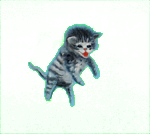
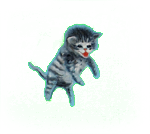
before the tail

diff --git a/client/code/app/vs/cosmos/CosmosControl.js b/client/code/app/vs/cosmos/CosmosControl.js
@@ -78,10 +78,11 @@ var CosmosControl = function ( $core ) {
 	}
 
 	self.toonFramesFromBeyond = function ( frameData, type ){
+		trace("looking for frames from beyond " + type );
 		var soul = self.core.souls[ type ];
 		if ( soul == null ) throw new Error( "You got no SOUL");
 		soul.toonFrames = frameData;		
-		self.checkWaitingRoom( soul.type );
+		self.checkWaitingRoom( type  );
 	}
 
 	self.soulFromBeyond = function ( soulData ){
@@ -104,8 +105,12 @@ var CosmosControl = function ( $core ) {
 
 	self.checkWaitingRoom = function ( type ){
 
+		trace("checking the waiting room " + type );
+
 		var soul = self.core.souls[ type ];
 		var max = self.core.waitingRoomList.length;
+
+		trace("what does the max look like " + max );
 
 		var remove = [];
 		var i;
@@ -114,7 +119,7 @@ var CosmosControl = function ( $core ) {
 		{
 			var avatar = self.core.waitingRoomList[ i ];
 			
-			trace("whats in the list " + avatar.type );
+			trace("whats in the list " + avatar.type + " what type are we looking for " + type );
 
 			if ( avatar.type == type ) {
 				
@@ -124,11 +129,20 @@ var CosmosControl = function ( $core ) {
 			}
 		}
 
-		max = remove.length;
+		var b;
+		var removeMax = remove.length;
+		trace("before " + removeMax );
 
-		for ( i = 0; i < max; i++ ){ self.core.waitingRoomList.splice( remove[ i ] ); }
+		for ( i = 0; i < removeMax; i++ ){ 
+			
+			var index = remove[i];
+			self.core.waitingRoomList.splice( index, 1 ); 
+		
+		}
 
-		var max = self.core.waitingRoomList.length;
+		max = self.core.waitingRoomList.length;
+
+		trace("after " + max );
 	}
 
 	self.stop = function(){

diff --git a/client/static/images/world/Level1.js b/client/static/images/world/Level1.js
@@ -64,8 +64,8 @@ world = {
     circle.setElasticity(0.8);
     circle.setFriction(1);
 
-    if ( avatar.type == "Balloon" )   world.balloon = avatar.core.body;
-    if ( avatar.type == "Kitty" )     world.kitty = avatar.core.body;
+    //if ( avatar.type == "Balloon" )   world.balloon = avatar.core.body;
+    //if ( avatar.type == "Kitty" )     world.kitty = avatar.core.body;
 
     
 

diff --git a/client/code/app/vs/avatar/AvatarContent.js b/client/code/app/vs/avatar/AvatarContent.js
@@ -32,7 +32,7 @@ var AvatarContent = function ( $core, $control ) {
 		self.core.width = soul.width;
 		self.core.height = soul.height;
 
-		builder.addAnimation("circle", frames, true, 8);
+		builder.addAnimation("circle", frames, true, 1);
 		var spriteSheet = builder.build();
 
 		// create our bitmap animations using the generated sprite sheet, and put them on stage:

diff --git a/client/static/images/soul/Kitty.js b/client/static/images/soul/Kitty.js
@@ -2,9 +2,9 @@ soul = {
 
 	type:"Kitty",
 
-	toonFrames:"kitty",
-	height:40,
-	width:31,
+	toonFrames:"Kitten",
+	height:134,
+	width:150,
 
 	radius:20,
 	mass:3,
